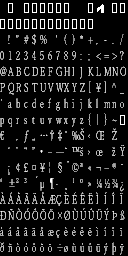
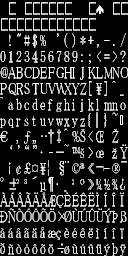
better interaction with npcs now

diff --git a/source/vars.h b/source/vars.h
@@ -64,6 +64,26 @@ const char names[][16] = {
     "Jamal",
     "Jared",
     "AzizBgBoss",
+    "Marcus",
+    "Priya",
+    "Diego",
+    "Kaitlyn",
+    "Trevor",
+    "Amara",
+    "Chelsea",
+    "Malik",
+    "Sofia",
+    "Brandon",
+    "Nadia",
+    "Ethan",
+    "Cody",
+    "Leila",
+    "Tyrese",
+    "Megan",
+    "Rashid",
+    "Paige",
+    "Devon",
+    "Kratos",
 };
 
 #define NAMES sizeof(names) / sizeof(names[0])